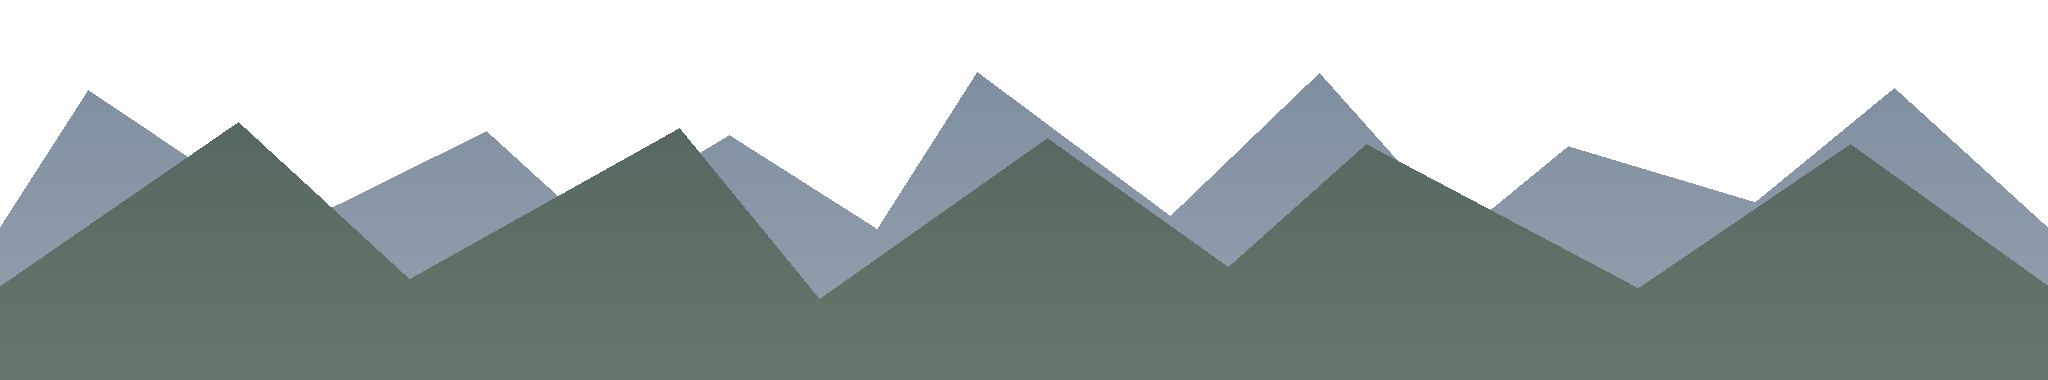
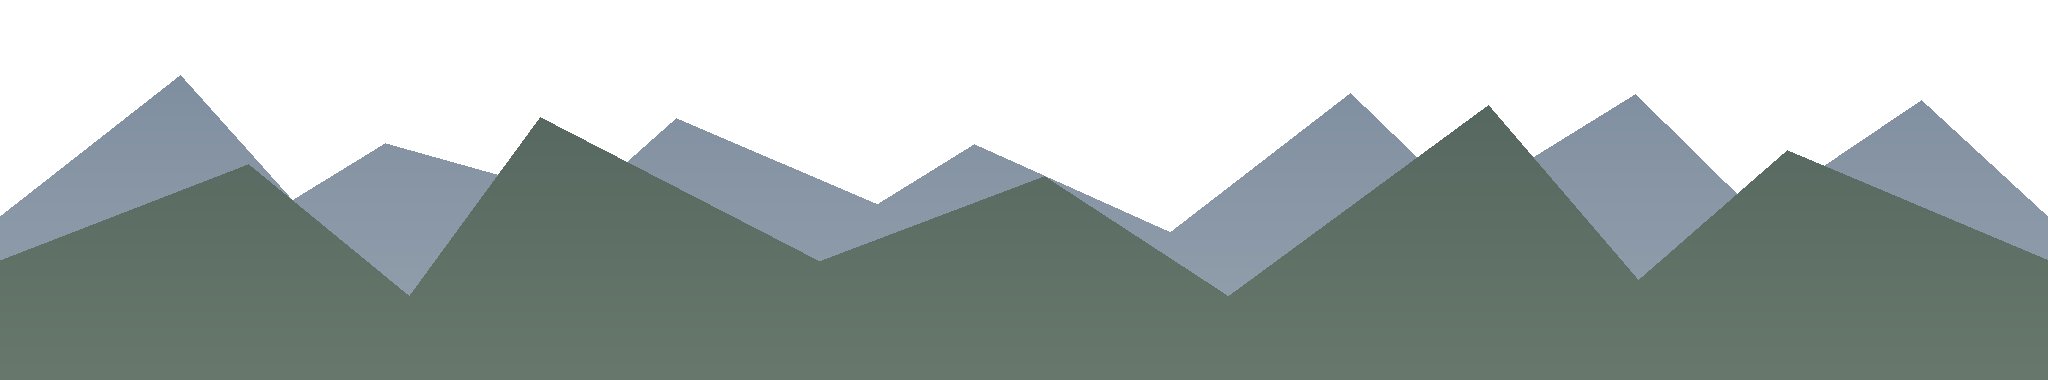
fix(demo): 树线生成器广播维度修复——新版双冠树线贴图真正落盘

diff --git a/stick-world/tools/ai/gen_sky_decor.py b/stick-world/tools/ai/gen_sky_decor.py
@@ -145,7 +145,7 @@ def _tree_ridge(rnd, base_y, h, color, W=2048, H=320):
 	# 底部体积渐变（numpy 按深度乘暗：保留树干间隙的透气感，不做实心底带）
 	arr = np.asarray(out, dtype=np.float32)
 	Hh = arr.shape[0]
-	yy = np.arange(Hh)[:, None]
+	yy = np.arange(Hh)[:, None, None]  # (H,1,1)：对 (H,W,3) 逐行广播
 	fade_start = base_y - h * 0.35
 	dark = np.clip(1.0 - 0.28 * np.clip((yy - fade_start) / max(base_y - fade_start, 1), 0, 1), 0.72, 1.0)
 	arr[..., 0:3] *= dark
